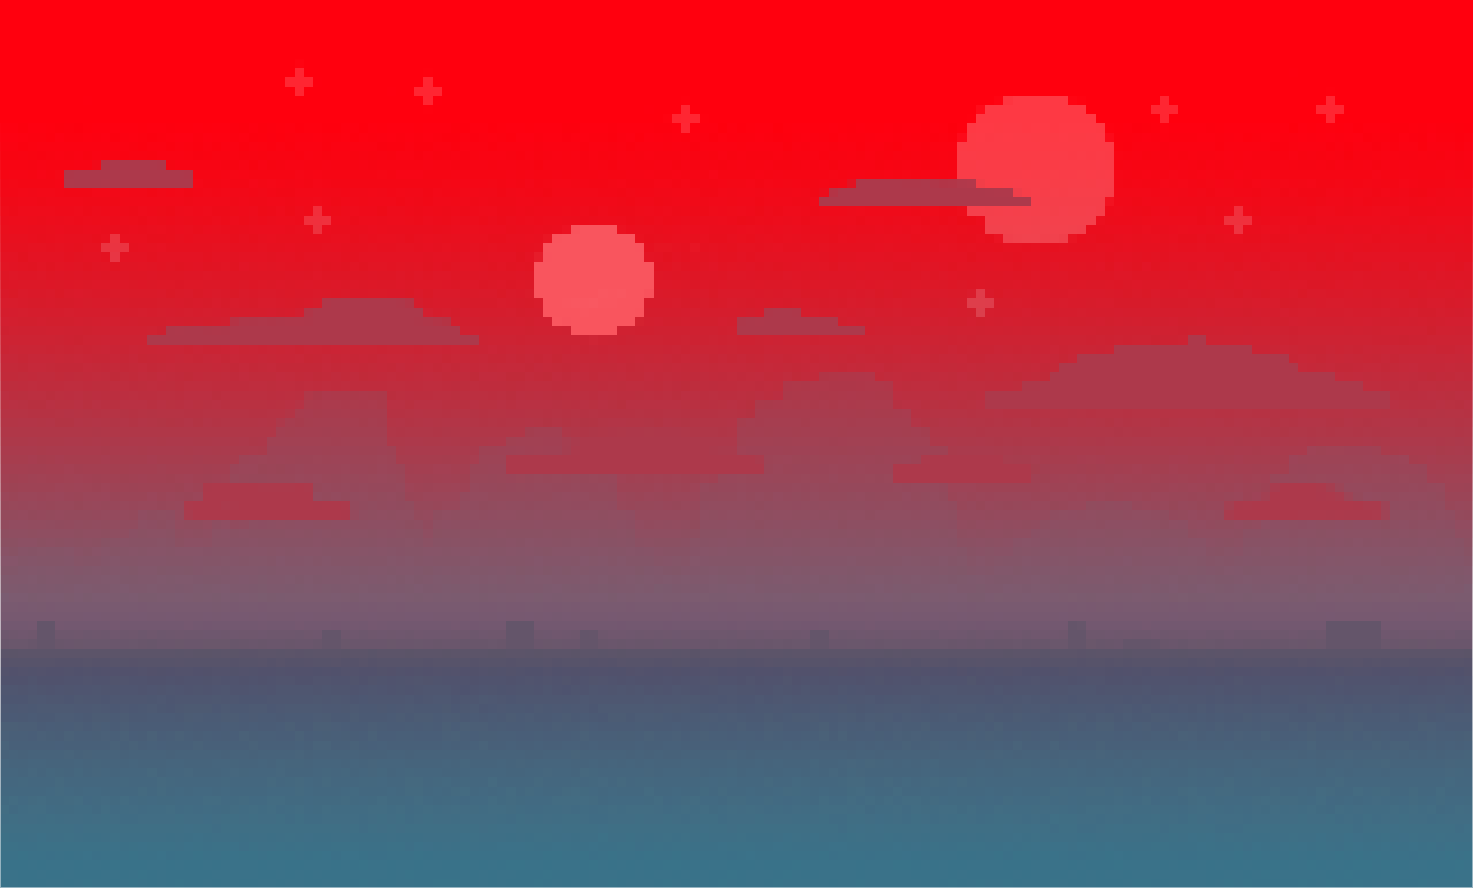
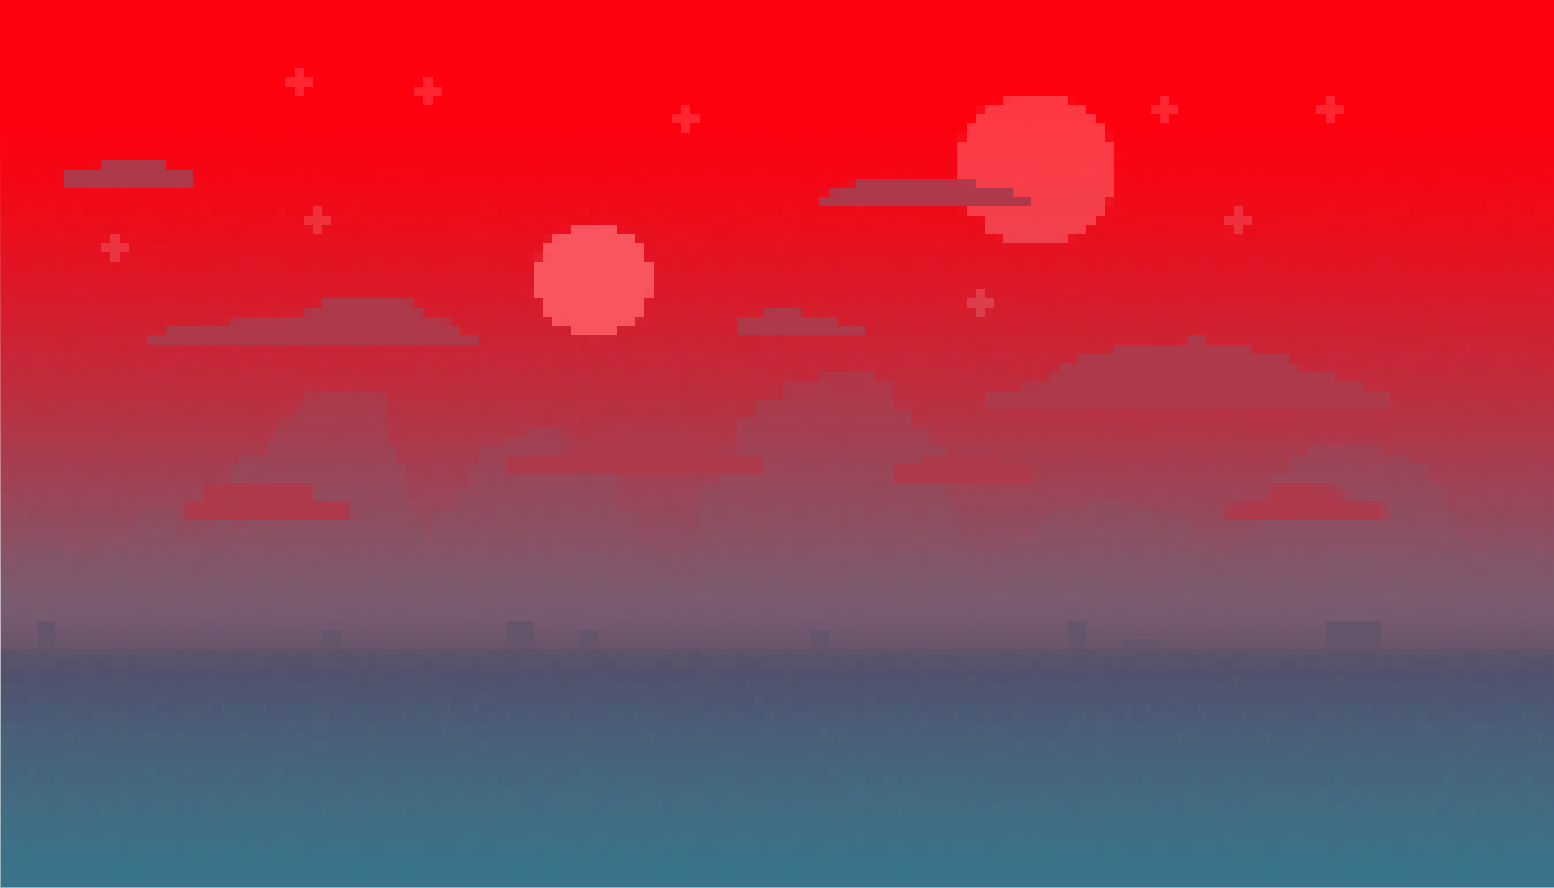
Camera movement

diff --git a/src/components/game/objects/Game.js b/src/components/game/objects/Game.js
@@ -48,15 +48,14 @@ export default function (width, height, ctx) {
         width,
         height,
         ctx,
-        drawFrom: 0,
-        drawTo: 12,
+        draw: {from: 20, diff: 0, to: 34},
         isPaused: false,
 
         imageLodar: null,
         navigator: { "lastUpdate": Date.now(), "player": { forward: false, backward: false, up: false }, "player2": { forward: false, backward: false, up: false } },
-        sizes: { blockWidth: 111, blockHeight: 111, tableWidth: 100, tableHeight: 8 },
+        sizes: { blockWidth: 111, blockHeight: 111, tableWidth: 30, tableHeight: 8 },
         blockTypes: { air: "air", ground: "ground" },
-        movement: { lastUpdate: new Date(), period: 60 },
+        movement: { lastUpdate: new Date(), period: 60, block: {minX: 0, maxX: 1000} },
         gravity: 0.2,
 
         players: [],
@@ -125,13 +124,19 @@ export default function (width, height, ctx) {
         }
     }
 
-    GAME.validPos = function (x, y, doNormalization) {
+    GAME.validPos = function (x, y, direction, doNormalization) {
+        let blockingCondition;
+
         if (doNormalization) {
+            blockingCondition = this.movement.block.minX <= x && this.movement.block.maxX >= x;
             x = this.normalizeX(x);
             y = this.normalizeX(y);
+        } else {
+            blockingCondition = this.movement.block.minX <= x*GAME.sizes.blockWidth && this.movement.block.maxX >= x*GAME.sizes.blockWidth;
         }
 
-        return y < this.sizes.tableHeight && !!this.blocks[x * this.sizes.tableHeight + y];
+        console.log(blockingCondition);
+        return y < this.sizes.tableHeight && !!this.blocks[x * this.sizes.tableHeight + y] && blockingCondition;
     }
 
     GAME.canFall = function (x, y, doNormalization) {
@@ -216,24 +221,55 @@ export default function (width, height, ctx) {
     let convertNumber = function(number) {
         let images = [];
 
-        (number+"").split("").forEach(digit => {
-            images.push(GAME.imageLoader.get(digit).image);
-        })
+        (number+"").split("").forEach(digit => images.push(GAME.imageLoader.get(digit).image))
  
         return images;
+    }
+
+    let calcViewport = function() {
+        let minPlayer = {x: Infinity};
+        let maxPlayer = {x: -Infinity};
+        GAME.players.filter(player => !player.dead).forEach(player => {
+            if(player.x < minPlayer.x) {
+                minPlayer = player;
+            }
+
+            if(player.x > maxPlayer.x) {
+                maxPlayer = player;
+            }
+        })
+
+        let avg = (maxPlayer.x + minPlayer.x) / 2;
+        let dist = maxPlayer.x - minPlayer.x;
+
+        if(dist <= 10*GAME.sizes.blockWidth) {
+            GAME.movement.block.minX = Math.max(avg - 5*GAME.sizes.blockWidth, 0);
+            GAME.movement.block.maxX = Math.min(avg + 5*GAME.sizes.blockWidth, GAME.sizes.tableWidth * GAME.sizes.blockWidth);
+        } else {
+            avg = (GAME.movement.block.minX + GAME.movement.block.maxX) / 2;
+        }
+
+        GAME.draw.from = Math.min(Math.max(GAME.normalizeX(avg) - 8, 0), GAME.sizes.tableWidth - 14);
+        GAME.draw.to = Math.min(GAME.normalizeX(avg) + 9, GAME.sizes.tableWidth);
+
+        if(GAME.draw.from == 0) {
+            GAME.draw.to += 8 - GAME.normalizeX(avg);
+        }
+
+        GAME.draw.diff = GAME.sizes.tableWidth - 14 == GAME.draw.from ? 0 : Math.max(avg - 8*(GAME.sizes.blockWidth) - GAME.draw.from * GAME.sizes.blockWidth, 0);
     }
 
     GAME.draw = function () {
         GAME.ctx.canvas.width = GAME.ctx.canvas.width;
         GAME.ctx.drawImage(GAME.imageLoader.get("background").image, 0, 0);
 
-        var blocks = GAME.blocks.slice(GAME.drawFrom * GAME.sizes.tableHeight, (GAME.drawTo + 2) * GAME.sizes.tableHeight - GAME.drawFrom * GAME.sizes.tableHeight);
-
-        blocks.forEach((block) => {
+        calcViewport();
+        for(let i = GAME.draw.from * GAME.sizes.tableHeight; i < GAME.draw.to * GAME.sizes.tableHeight; ++i) {
+            let block = GAME.blocks[i];
             if (block.getImage().image) {
-                GAME.ctx.drawImage(block.getImage().image, block.getX() - GAME.drawFrom * GAME.sizes.blockWidth, block.getY());
+                GAME.ctx.drawImage(block.getImage().image, block.getX() - GAME.draw.from * GAME.sizes.blockWidth - GAME.draw.diff, block.getY());
             }
-        });
+        }
 
         let c = 0;
         this.players.forEach((player) => {
@@ -244,7 +280,7 @@ export default function (width, height, ctx) {
 
             let marginLeft = c++ * (GAME.ctx.canvas.width - 5 * 42);
 
-            GAME.ctx.fillText(player.name, player.x + (GAME.sizes.blockWidth - GAME.ctx.measureText(player.name).width) / 2 , player.y - 10);
+            GAME.ctx.fillText(player.name, (player.x - GAME.draw.from * GAME.sizes.blockWidth - GAME.draw.diff) + (GAME.sizes.blockWidth - GAME.ctx.measureText(player.name).width) / 2 , player.y - 10);
             GAME.ctx.font="20px Courier New";
             GAME.ctx.fillText(player.name, marginLeft + 5 , GAME.ctx.canvas.height - 80);
             
@@ -267,7 +303,7 @@ export default function (width, height, ctx) {
                 play.image.x, play.image.y,
                 GAME.sizes.blockWidth,
                 GAME.sizes.blockHeight,
-                play.x - GAME.drawFrom * GAME.sizes.blockWidth,
+                play.x - GAME.draw.from * GAME.sizes.blockWidth - GAME.draw.diff,
                 play.y,
                 GAME.sizes.blockWidth,
                 GAME.sizes.blockHeight);
@@ -275,13 +311,13 @@ export default function (width, height, ctx) {
 
         this.npcs.forEach((npc) => {
             npc = npc.getMove();
-            /* GAME.ctx.rect(npc.x - GAME.drawFrom * GAME.sizes.blockWidth,npc.y,111,111);
+            /* GAME.ctx.rect(npc.x - GAME.draw.from * GAME.sizes.blockWidth,npc.y,111,111);
             GAME.ctx.stroke();  */
             GAME.ctx.drawImage(npc.image.image,
                 npc.image.x, npc.image.y,
                 npc.image.width || GAME.sizes.blockWidth,
                 npc.image.height || GAME.sizes.blockHeight,
-                npc.x - GAME.drawFrom * GAME.sizes.blockWidth,
+                npc.x - GAME.draw.from * GAME.sizes.blockWidth,
                 npc.y,
                 npc.image.width || GAME.sizes.blockWidth,
                 npc.image.height || GAME.sizes.blockHeight);
@@ -293,14 +329,14 @@ export default function (width, height, ctx) {
             let bullet = this.bullets[i].getMove();
 
             if (!bullet.destroyed) {
-                /* GAME.ctx.rect(bullet.x - GAME.drawFrom * GAME.sizes.blockWidth,bullet.y,111,111);
+                /* GAME.ctx.rect(bullet.x - GAME.draw.from * GAME.sizes.blockWidth,bullet.y,111,111);
                 GAME.ctx.stroke();  */
 
                 GAME.ctx.drawImage(bullet.image.image,
                     bullet.image.x, bullet.image.y,
                     bullet.image.width || GAME.sizes.blockWidth,
                     bullet.image.height || GAME.sizes.blockHeight,
-                    bullet.x - GAME.drawFrom * GAME.sizes.blockWidth,
+                    bullet.x - GAME.draw.from * GAME.sizes.blockWidth,
                     bullet.y,
                     bullet.image.width || GAME.sizes.blockWidth,
                     bullet.image.height || GAME.sizes.blockHeight);
@@ -367,11 +403,11 @@ export default function (width, height, ctx) {
             for (var j = 0; j < GAME.sizes.tableHeight; ++j) {
                 var type = j > 5 ? GAME.blockTypes.ground : GAME.blockTypes.air;
 
-                if (i == 0) {
+               /* if (i == 0) {
                     if (j == 5 || j == 4) {
                         type = GAME.blockTypes.ground;
                     }
-                } /* else if (i == 2) {
+                }  else if (i == 2) {
                     if (j == 5) {
                         type = GAME.blockTypes.ground;
                     }
@@ -383,26 +419,31 @@ export default function (width, height, ctx) {
                     if (j == 5) {
                         type = GAME.blockTypes.ground;
                     }
-                } */
+                }
                 else if (i == 12) {
                     if (j == 5 || j == 4) {
                         type = GAME.blockTypes.ground;
                     }
-                }
+                } */
 
+                if(i % 5 == 0 && j == 5) {
+                    type = GAME.blockTypes.ground;
+                }
                 GAME.blocks.push(new Block(GAME, type, GAME.imageLoader.get(type), i * GAME.sizes.blockWidth, j * GAME.sizes.blockHeight));
             }
         }
     }
 
     var addPlayer = function () {
-        GAME.players.push(new Player(GAME, "Ákos"));
-        GAME.players.push(new Player(GAME, "Máté"));
+        GAME.players.push(new Player(GAME));
+        GAME.players.push(new Player(GAME));
     }
 
     let addNPCs = function () {
-        GAME.npcs.push(new NPC(GAME, 555, 555));
-        GAME.npcs.push(new NPC(GAME, 888, 555, -1));
+        /* GAME.npcs.push(new NPC(GAME, 555, 555));
+        GAME.npcs.push(new NPC(GAME, 444, 555));
+        GAME.npcs.push(new NPC(GAME, 666, 555)); 
+        GAME.npcs.push(new NPC(GAME, 888, 555, -1));*/
     }
 
     let createKeyListeners = function () {
@@ -410,7 +451,6 @@ export default function (width, height, ctx) {
             for (let keyEvent of GAME.keys) {
 
                 if (keyEvent.key == e.keyCode && keyEvent.fnDown && (keyEvent.condition ? keyEvent.condition(e) : true)) {
-                    (keyEvent.condition ? console.log(keyEvent.condition) : "")
                     keyEvent.fnDown();
                     break;
                 }
@@ -420,7 +460,6 @@ export default function (width, height, ctx) {
         document.addEventListener("keyup", (e) => {
             for (let keyEvent of GAME.keys) {
                 if (keyEvent.key == e.keyCode && keyEvent.fnUp && (keyEvent.condition ? keyEvent.condition(e) : true)) {
-                    (keyEvent.condition ? console.log(keyEvent.condition) : "")
                     keyEvent.fnUp();
                     break;
                 }

diff --git a/src/components/game/objects/Player.js b/src/components/game/objects/Player.js
@@ -17,7 +17,7 @@ export default function (game, name) {
         dead: false,
         game: game,
         name: name || "Doe János",
-        killCounter: 178
+        killCounter: 0
     };
 
     Player.npcKilled = function() {
@@ -32,7 +32,7 @@ export default function (game, name) {
         }
         this.moved = true;
 
-        if (!this.game.validPos(this.x + this.velocity.x * time, this.y, true) || !this.game.canGo(this.x + this.velocity.x * time, this.y, forward, true)) {
+        if (!this.game.validPos(this.x + this.velocity.x * time, this.y, this.direction, true) || !this.game.canGo(this.x + this.velocity.x * time, this.y, forward, true)) {
             this.velocity.x = 0;
         }
     }
@@ -52,7 +52,7 @@ export default function (game, name) {
             }
         }
 
-        if (!this.game.validPos(this.x + this.velocity.x * time, this.y, true) || !this.game.canGo(this.x + this.velocity.x * time, this.y, this.velocity.x > 0, true)) {
+        if (!this.game.validPos(this.x + this.velocity.x * time, this.y, this.direction, true) || !this.game.canGo(this.x + this.velocity.x * time, this.y, this.velocity.x > 0, true)) {
             this.velocity.x = 0;
         }
     }

diff --git a/src/components/game/Game.vue b/src/components/game/Game.vue
@@ -3,7 +3,7 @@
   <div id="game">
     <canvas
       id="gameCanvas"
-      width="1473"
+      width="1554"
       height="888"/>
   </div>
 </template>
@@ -33,5 +33,4 @@
 </script>
 
 <style scoped>
-
 </style>
